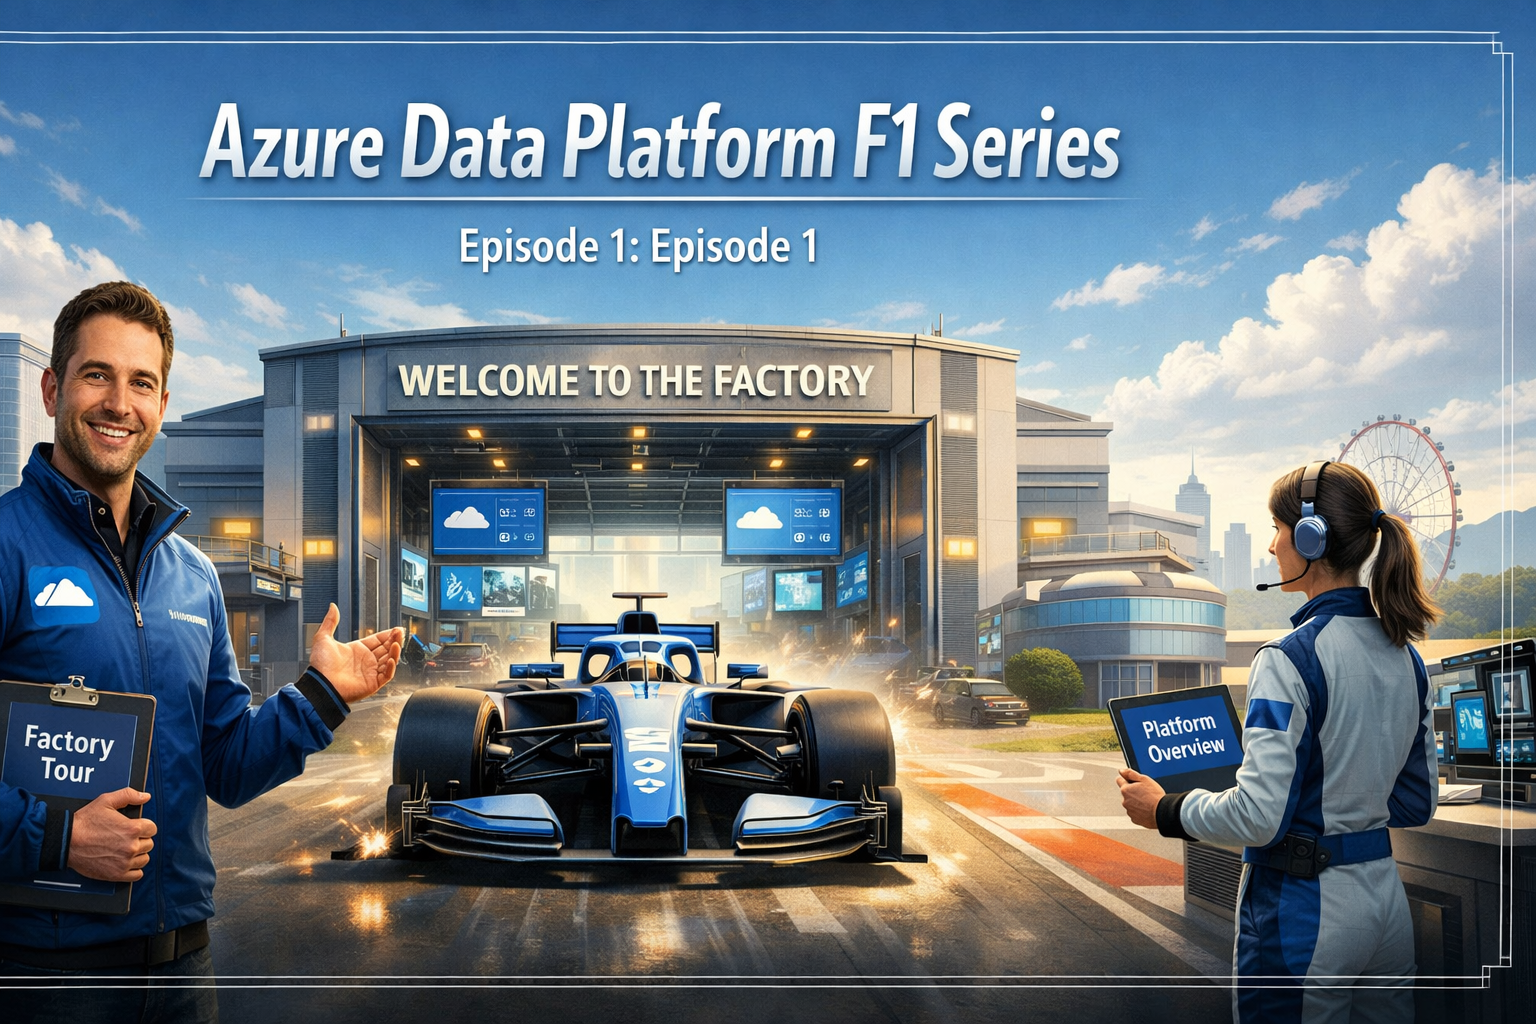
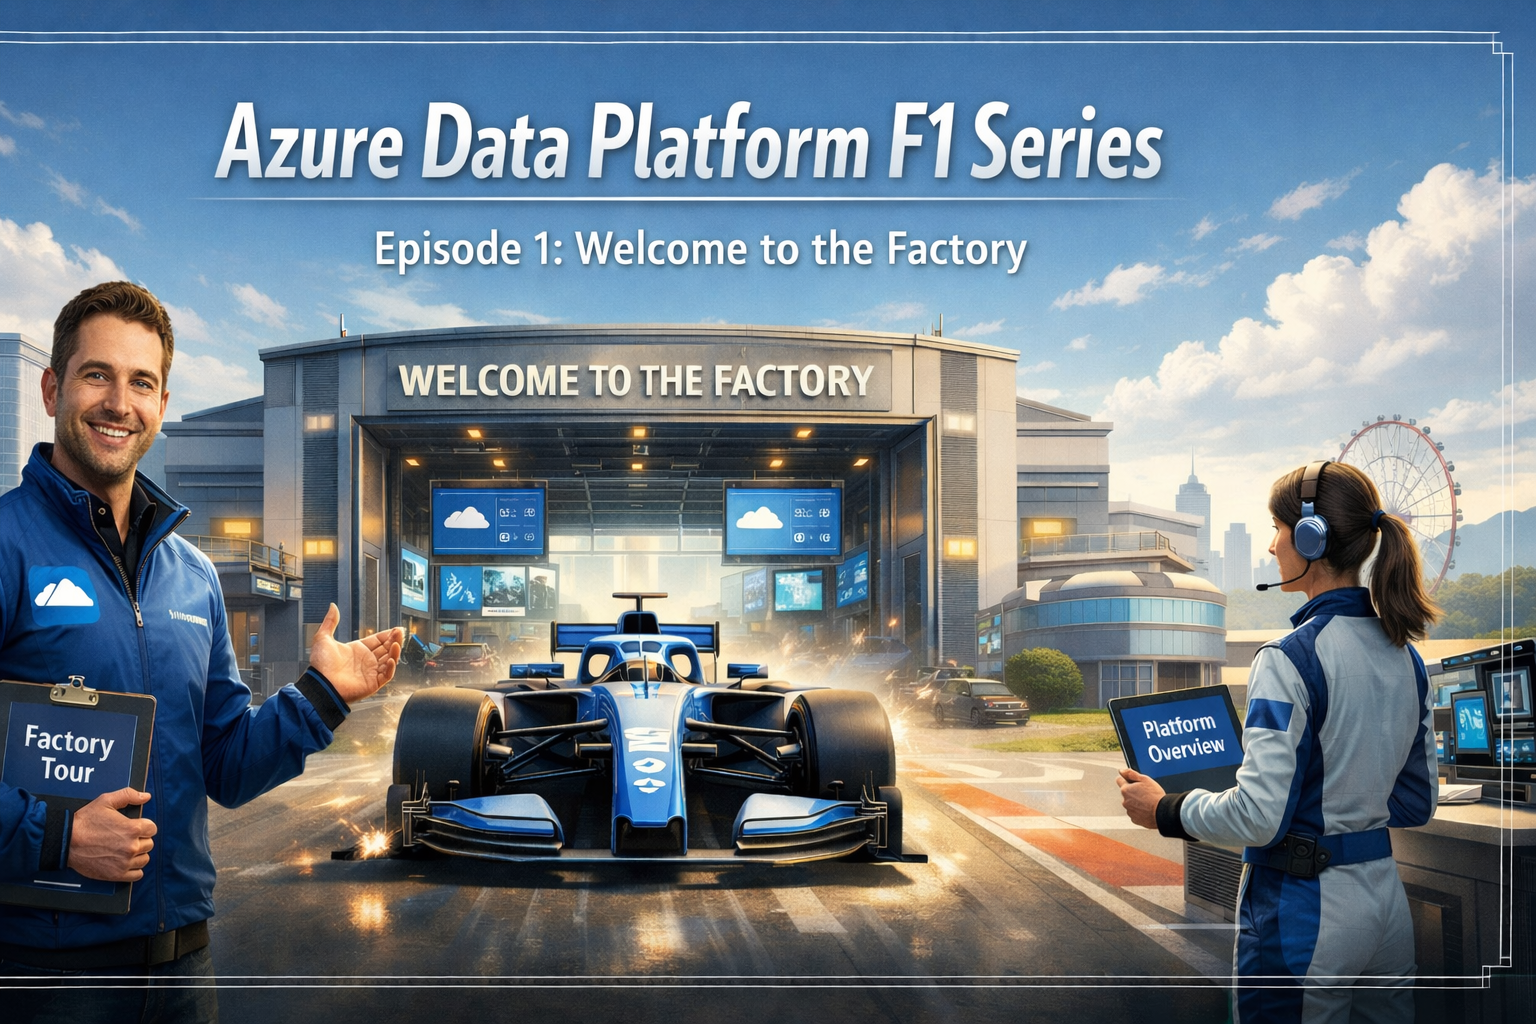
Fix titles in images

diff --git a/scripts/prompt-cli.py b/scripts/prompt-cli.py
@@ -203,6 +203,25 @@ def get_episode(data, episode_number):
     return None
 
 
+_DISPLAY_TITLE_PLACEHOLDER = "add display title here"
+
+
+def episode_image_title(episode):
+    """
+    Title to use in image prompt subtitle.
+
+    We prefer an explicit `display_title` so that `center_action` can be used
+    purely for scene/action description without also becoming the title.
+    """
+
+    display_title = (episode.get("display_title") or "").strip()
+    if display_title:
+        return display_title
+
+    # Backwards-compatible fallback for older series files.
+    return (episode.get("title") or "").strip()
+
+
 def build_title_safety_block(series_name, episode_number, title, config):
     lr = config["image_title_safe_left_right_percent"]
     top = config["image_title_safe_top_percent"]
@@ -240,7 +259,7 @@ def build_image_prompt(data, episode, config):
     composition = defaults.get("composition", {})
 
     series_name = series.get("name", "")
-    title = episode.get("title", "")
+    title = episode_image_title(episode)
     metaphor = episode.get("metaphor", "")
     center_action = episode.get("center_action", "")
 
@@ -599,6 +618,7 @@ def bootstrap_series(series_file):
             {
                 "number": number,
                 "title": episode_title,
+                "display_title": "add display title here",
                 "slug": episode_slug,
                 "metaphor": base_metaphor,
                 "center_action": (
